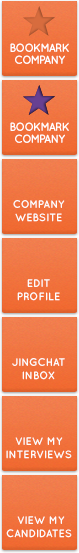
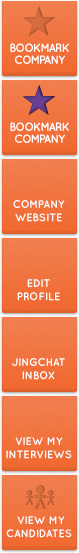
modify some bugs of 4,7,9 pages in .pdf

Changed region(s): [[0.3291, 0.8608, 0.5823, 0.9222], [0.6076, 0.8608, 0.6835, 0.9222]]

diff --git a/theme/default/js/jobseeker.js b/theme/default/js/jobseeker.js
@@ -334,7 +334,7 @@ function uploadImage(old_avatar) {
                 oBtn.disabled = "disabled";
             }else{
                 oRemind.style.color = "red";
-                oRemind.innerHTML = "Sorry, Do not support this image type.";
+                oRemind.innerHTML = "Sorry, we do not support this image type. Please use jpg or png.";
                 return false;
             }
         },

diff --git a/application/views/default/company-profile.php b/application/views/default/company-profile.php
@@ -13,7 +13,11 @@
         <h4><?php echo $info['city'].', '.$info['country'];?></h4>
         <p></p>
       </div>
-      <div class="btnarea"> <a href="<?php echo $site_url;?>company/shortlistCandidates" class="png combtn cand"></a> <a href="<?php echo $site_url;?>jobseeker/viewInterviews" class="png combtn views "></a> <a href="<?php echo $site_url;?>inbox" class="png combtn inbox"></a> <a href="<?php echo $site_url;?>company/register" class="png combtn edit"></a> </div>
+      <div class="btnarea">
+          <a href="<?php echo $site_url;?>company/shortlistCandidates" class="png combtn cand"></a>
+          <a href="<?php echo $site_url;?>jobseeker/viewInterviews" class="png square_btn  view_my_interviews_btn "></a>
+          <a href="<?php echo $site_url;?>inbox" class="png square_btn jingchat_inbox_btn"></a>
+          <a href="<?php echo $site_url;?>company/register" class="png square_btn edit_profile_btn"></a> </div>
     </div>
     <div class="company-bd">
       <div class="company-bd-left">

diff --git a/application/views/default/company-register.php b/application/views/default/company-register.php
@@ -23,7 +23,8 @@
     </div>
     <div class="reg-right-wrap">
         <div class="reg-right box mb20"> 
-            <p class="reg-right-text">Please fill out the mandatory fields to enhance your JingJobs experience,and promote your company to jobseekers.</p>
+            <p class="reg-right-text">Please fill out the mandatory fields to enhance your JingJobs
+                experience and promote your company to jobseekers.</p>
             <form action="" id="basicForm" method="post">
             <input type="hidden" name="uid" value="<?php echo $uid; ?>" />
             <div class="reg-area"> <a id="reg1" name="reg1"></a>
